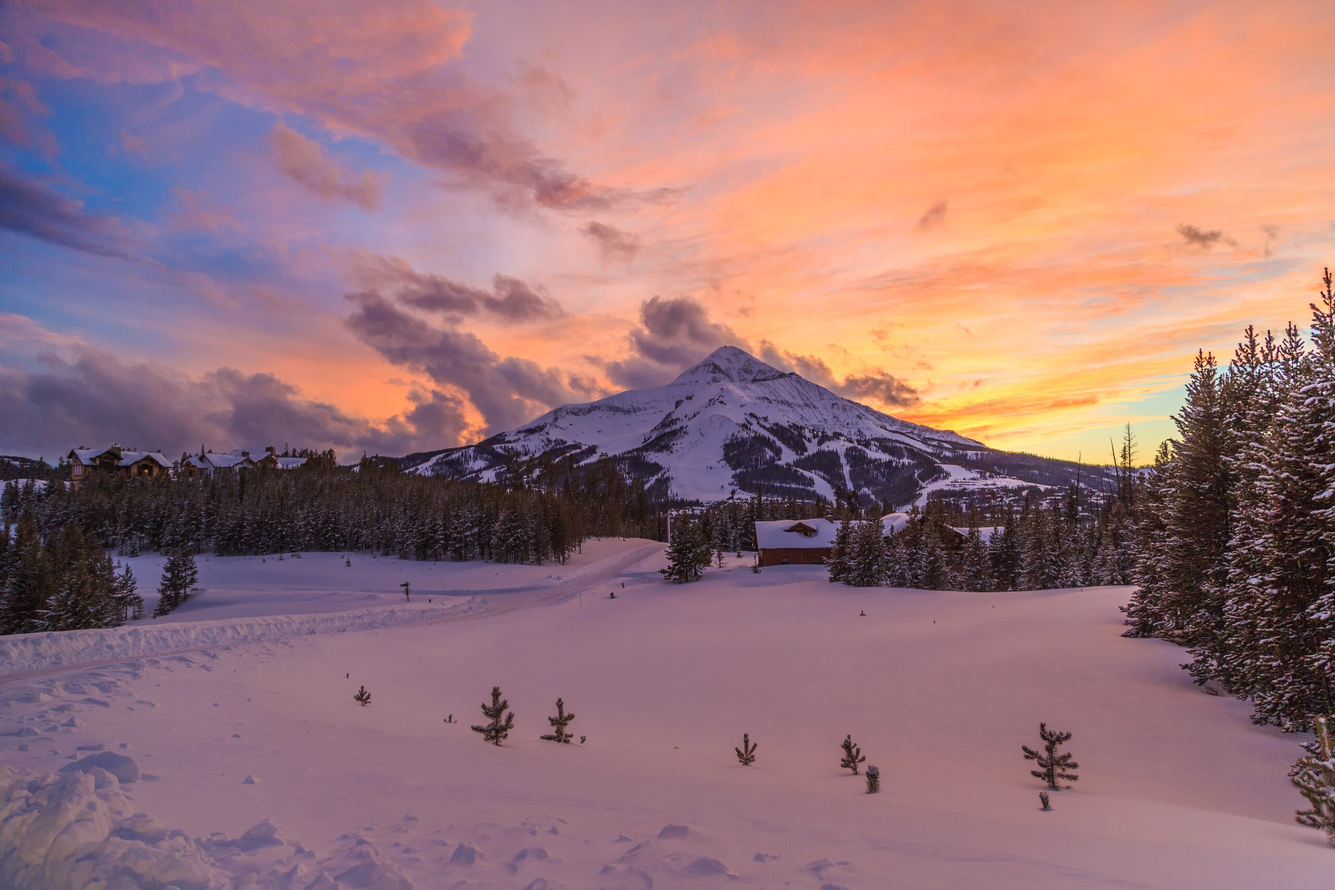
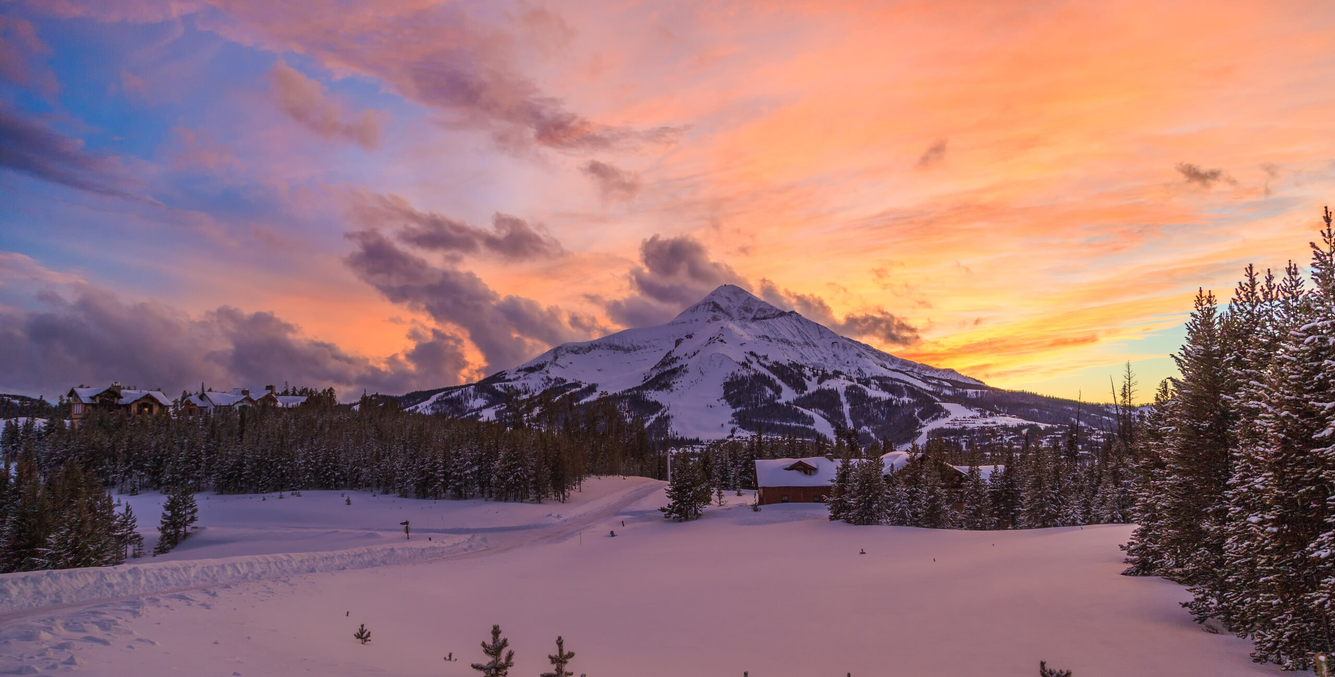
Recenter the Lone Peak hero on the summit.
Crop the desktop and mobile photos around the peak, anchor the background at the summit, and keep the headline in the lower left so the tip stays visible.

diff --git a/styles.css b/styles.css
@@ -18,8 +18,8 @@ a{color:inherit;text-decoration:none}
 .main-nav a{font-size:.72rem;font-weight:600;letter-spacing:.08em;text-transform:uppercase;color:rgba(255,255,255,.78);white-space:nowrap}
 .main-nav a:hover,.main-nav a.active{color:var(--red)}
 .nav-toggle{display:none;background:none;border:none;color:#fff;font-size:1.35rem;cursor:pointer}
-.hero{min-height:78vh;display:flex;align-items:flex-end;background-color:#0d0d0d;background-image:linear-gradient(to top,rgba(0,0,0,.78) 0%,rgba(0,0,0,.35) 45%,rgba(0,0,0,.25) 100%),url('images/lone-peak.jpg');background-position:center,center top;background-size:cover;background-repeat:no-repeat;color:#fff}
-.hero-content{position:relative;z-index:1;padding:4.5rem 0 3.5rem;max-width:700px}
+.hero{min-height:78vh;display:flex;align-items:flex-end;background-color:#0d0d0d;background-image:linear-gradient(to top,rgba(0,0,0,.78) 0%,rgba(0,0,0,.36) 28%,rgba(0,0,0,0) 52%),linear-gradient(to right,rgba(0,0,0,.62) 0%,rgba(0,0,0,.26) 28%,rgba(0,0,0,0) 50%),url('images/lone-peak.jpg');background-position:center,center,center 42%;background-size:cover;background-repeat:no-repeat;color:#fff}
+.hero-content{position:relative;z-index:1;width:auto;max-width:min(32rem,42vw);margin-left:max(1.25rem,calc((100% - 1100px) / 2));margin-right:auto;padding:0 0 2.75rem}
 .hero h1{font-family:var(--font-display);font-size:clamp(2.4rem,5.5vw,4.2rem);font-weight:700;line-height:1.02;letter-spacing:.02em;text-transform:uppercase;margin-bottom:.85rem;text-shadow:0 2px 16px rgba(0,0,0,.45)}
 .hero-sub{font-size:1.05rem;opacity:.92;max-width:440px;margin-bottom:1.75rem;line-height:1.5}
 .hero-ctas{display:flex;flex-wrap:wrap;gap:.7rem}
@@ -107,4 +107,4 @@ a{color:inherit;text-decoration:none}
 .email-popup .btn{width:100%;text-align:center}
 .email-popup-close{position:absolute;top:.65rem;right:.85rem;background:none;border:none;font-size:1.4rem;cursor:pointer;color:#666}
 @media(max-width:900px){.preview-grid{grid-template-columns:1fr 1fr}.contact-grid{grid-template-columns:1fr}.footer-inner{grid-template-columns:1fr;text-align:center}.footer-links{justify-content:center}.footer-copy{text-align:center}}
-@media(max-width:720px){.nav-toggle{display:block}.main-nav{display:none;position:absolute;top:100%;left:0;right:0;background:#0d0d0d;flex-direction:column;padding:.5rem 0 1rem;border-bottom:1px solid #333;gap:0}.main-nav.open{display:flex}.main-nav a{padding:.7rem 1.35rem;border-bottom:1px solid #2a2a2a;font-size:.78rem}.preview-grid{grid-template-columns:1fr}.hero{min-height:68vh;background-image:linear-gradient(to top,rgba(0,0,0,.78) 0%,rgba(0,0,0,.35) 45%,rgba(0,0,0,.25) 100%),url('images/lone-peak-1280.jpg')}.hero-ctas{flex-direction:column}.btn{text-align:center}.contact-bar{flex-direction:column;align-items:flex-start}.logo-svg{height:90px}}
+@media(max-width:720px){.nav-toggle{display:block}.main-nav{display:none;position:absolute;top:100%;left:0;right:0;background:#0d0d0d;flex-direction:column;padding:.5rem 0 1rem;border-bottom:1px solid #333;gap:0}.main-nav.open{display:flex}.main-nav a{padding:.7rem 1.35rem;border-bottom:1px solid #2a2a2a;font-size:.78rem}.preview-grid{grid-template-columns:1fr}.hero{min-height:68vh;background-image:linear-gradient(to top,rgba(0,0,0,.78) 0%,rgba(0,0,0,.36) 34%,rgba(0,0,0,0) 58%),linear-gradient(to right,rgba(0,0,0,.5) 0%,rgba(0,0,0,.18) 42%,rgba(0,0,0,0) 70%),url('images/lone-peak-mobile.jpg');background-position:center,center,center 40%}.hero .hero-content{max-width:none;width:92%;margin-left:auto;margin-right:auto;padding-bottom:2rem}.hero-ctas{flex-direction:column}.btn{text-align:center}.contact-bar{flex-direction:column;align-items:flex-start}.logo-svg{height:90px}}

diff --git a/index.html b/index.html
@@ -7,7 +7,7 @@
   <meta name="description" content="Custom structural and architectural metal fabrication for high-end residential and commercial projects in the Gallatin Valley, Bozeman, and Big Sky, Montana.">
   <link rel="stylesheet" href="styles.css">
   <link rel="preload" as="image" href="images/lone-peak.jpg" media="(min-width: 721px)">
-  <link rel="preload" as="image" href="images/lone-peak-1280.jpg" media="(max-width: 720px)">
+  <link rel="preload" as="image" href="images/lone-peak-mobile.jpg" media="(max-width: 720px)">
   <link rel="icon" type="image/png" href="favicon.png">
   <link rel="apple-touch-icon" href="apple-touch-icon.png">
 </head>
@@ -125,7 +125,7 @@
       </div>
     </div>
     <div class="container">
-      <p class="photo-credit">Hero photo: <a href="https://commons.wikimedia.org/wiki/File:Lone_Mountain_Sunset_(32727260230).jpg">Lone Mountain (Lone Peak), Big Sky, Montana</a> by <a href="https://www.flickr.com/photos/emotakespictures/32727260230/">Eric Moreno</a>, <a href="https://creativecommons.org/licenses/by/2.0/">CC BY 2.0</a>. Resized.</p>
+      <p class="photo-credit">Hero photo: <a href="https://commons.wikimedia.org/wiki/File:Lone_Mountain_Sunset_(32727260230).jpg">Lone Mountain (Lone Peak), Big Sky, Montana</a> by <a href="https://www.flickr.com/photos/emotakespictures/32727260230/">Eric Moreno</a>, <a href="https://creativecommons.org/licenses/by/2.0/">CC BY 2.0</a>. Cropped and resized.</p>
     </div>
   </footer>
 
